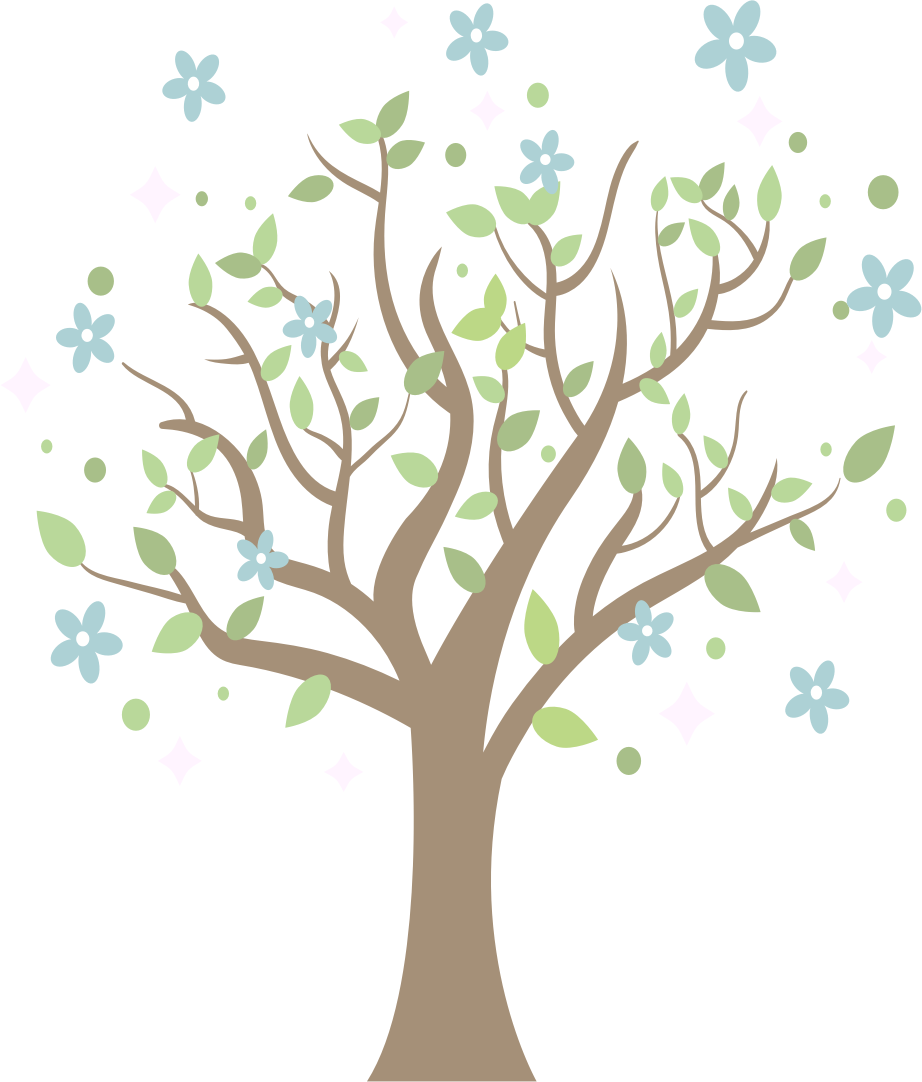
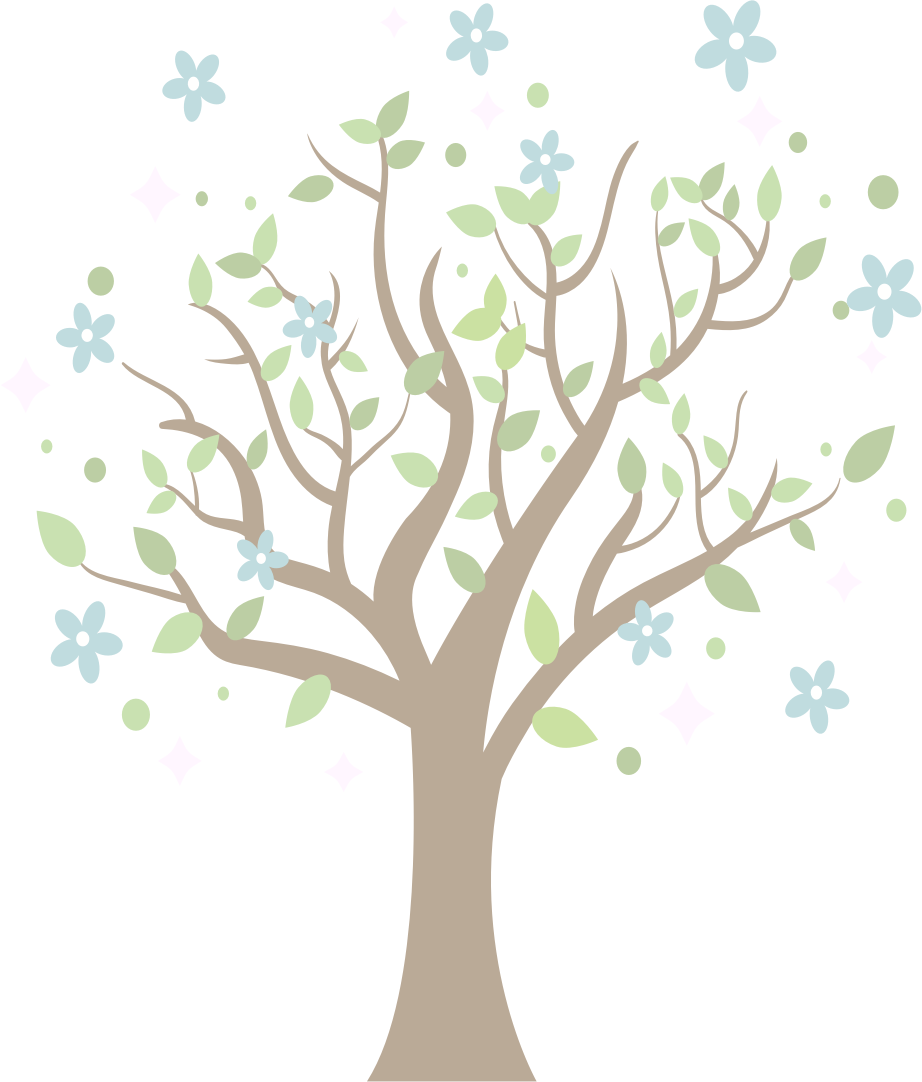
Added some change in the html and design.

diff --git a/app/assets/stylesheets/relatives/_relatives.scss b/app/assets/stylesheets/relatives/_relatives.scss
@@ -6,14 +6,13 @@
 .relatives-banner {
   background-image: url("family-tree.png");
   background-repeat: no-repeat;
-  margin-bottom: 50px;
-  background-size: cover;
+  background-size: contain;
   height: 1200px;
-  background-position: fixed;
+  background-position: bottom;
 }
 
 .relatives-banner-content {
-  padding: 60px;
+  padding: 0px 60px;
 }
 
 .relatives-avatar {
@@ -24,7 +23,8 @@
   height: 100px;
   width: 100px;
   border-radius: 50%;
-  border: 5px solid $blue;
+  border: 5px solid $darkblue;
+  box-shadow: 1px 2px 2px lightblue;
 }
 
 .parents {
@@ -36,7 +36,6 @@
 .freres-soeurs-grands-parents {
   display: flex;
   justify-content: space-between;
-  margin-bottom: 200px;
 }
 
 .oncles-tantes-cousins-cousines {
@@ -51,24 +50,26 @@
   margin-bottom: 50px;
 }
 
-.hero {
+.hero-relative {
   display: flex;
   justify-content: center;
+  margin-bottom: 50px;
 
   img {
     height: 200px;
     width: 200px;
     border-radius: 50%;
     border: 5px solid $yellow;
+    box-shadow: 1px 2px 2px $yellow;
   }
 }
 .title-relatives {
   display: flex;
   align-items: center;
-
   h2 {
     padding: 0px;
     margin: 0px;
+    margin-left: 5px;
   }
 }
 
@@ -80,15 +81,13 @@
 
 .plus-button-relatives i{
   color: $light-gray;
-  opacity: 0.8;
   font-size: 30px;
   transition: all 0.3s ease;
   margin-left: 10px;
 }
 
 .plus-button-relatives i:hover{
-  color: $blue;
-  font-size: 50px;
+  color: $yellow;
 }
 
 .plus-button-relatives a{

diff --git a/app/assets/stylesheets/layouts/_application.scss b/app/assets/stylesheets/layouts/_application.scss
@@ -2,10 +2,6 @@ body {
   background-color: $smooth-gray;
 }
 
-.container {
-  padding-bottom: 50px;
-}
-
 .wrapper {
   background-color: #fff;
 }
